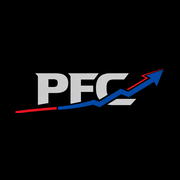
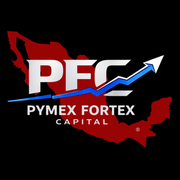
feat: logotipo con el mapa de México y documentos legales con los textos de Pimex Fortex Capital S.A.S.
Logotipo
- logo-mapa.png (sin fondo, superficies negras) y logo-mapa-tile.png (con fondo negro, sobre claro)
- En encabezado público, pie, login, barra lateral, encabezado móvil, páginas legales,
  favicon y apple-touch-icon; se retiran los emblemas anteriores

Documentos legales (siguen como borrador por los datos pendientes)
- Razón social Pimex Fortex Capital S.A.S. (constitución electrónica ante la Secretaría de Economía)
- Textos del cliente integrados: privacidad B2B, términos (comercialización de activos,
  unidades móviles, vehículos extranjeros legalizados, software y consultoría; ajeno a la
  intermediación financiera), cookies, riesgos (no es institución bancaria), KYC/PLD y atención
- Atención a usuarios: PROFECO como autoridad (ya no CONDUSEF)
- La política de cookies conserva el detalle real: solo la cookie técnica de sesión
- Copyright con la razón social

Changed region(s): [[0.0278, 0.1667, 0.9722, 0.8333]]

diff --git a/web/src/legal/documents.ts b/web/src/legal/documents.ts
@@ -30,7 +30,7 @@ export interface LegalDoc {
   sections: LegalSection[];
 }
 
-const EMPRESA = '[RAZÓN SOCIAL: Pimex Fortex Capital, S.A.P.I. de C.V. — confirmar denominación y figura legal]';
+const EMPRESA = 'Pimex Fortex Capital S.A.S.';
 const DOMICILIO = '[DOMICILIO: calle, número, colonia, código postal, ciudad, estado, México]';
 const CORREO_PRIVACIDAD = '[privacidad@pimexfortexcapital.com.mx]';
 const CORREO_SOPORTE = '[atencion@pimexfortexcapital.com.mx]';
@@ -52,8 +52,9 @@ export const LEGAL_DOCS: LegalDoc[] = [
       {
         title: '1. Identidad y domicilio del Responsable',
         blocks: [
-          `${EMPRESA} (en adelante, "Pimex Fortex Capital" o el "Responsable"), con domicilio en ${DOMICILIO}, es responsable del tratamiento de sus datos personales conforme a la Ley Federal de Protección de Datos Personales en Posesión de los Particulares vigente (la "LFPDPPP"), su Reglamento y demás disposiciones aplicables.`,
-          `Este Aviso aplica al sitio ${SITIO}, al portal de inversionistas ${PORTAL} y a la relación contractual con nuestros inversionistas. Última actualización: ${FECHA}.`
+          `En ${EMPRESA}, la protección de los datos personales y corporativos es prioritaria. Este Aviso de Privacidad regula la recolección, uso y resguardo de la información de clientes, proveedores y contrapartes comerciales (B2B), en cumplimiento con la legislación aplicable. Los datos se utilizan exclusivamente para la formalización de contratos mercantiles y la comercialización de activos, garantizando absoluta confidencialidad en las relaciones de carácter privado.`,
+          `${EMPRESA} (en adelante, "Pimex Fortex Capital", la "Sociedad" o el "Responsable"), con domicilio en ${DOMICILIO}, es responsable del tratamiento de sus datos personales conforme a la Ley Federal de Protección de Datos Personales en Posesión de los Particulares vigente (la "LFPDPPP"), su Reglamento y demás disposiciones aplicables.`,
+          `Este Aviso aplica al sitio ${SITIO}, al portal de clientes ${PORTAL} y a las relaciones comerciales con clientes, proveedores y contrapartes, sean personas físicas o representantes de personas morales. Última actualización: ${FECHA}.`
         ]
       },
       {
@@ -69,7 +70,7 @@ export const LEGAL_DOCS: LegalDoc[] = [
               'Datos técnicos de uso del portal: dirección IP, fecha y hora de acceso, navegador e intentos de inicio de sesión, con fines de seguridad.'
             ]
           },
-          { callout: 'Los datos financieros y patrimoniales requieren su consentimiento expreso, que se recaba al firmar el contrato de inversión o mediante el mecanismo que el Responsable establezca. No recabamos datos personales sensibles.' }
+          { callout: 'Los datos financieros y patrimoniales requieren su consentimiento expreso, que se recaba al firmar el contrato mercantil correspondiente o mediante el mecanismo que el Responsable establezca. No recabamos datos personales sensibles.' }
         ]
       },
       {
@@ -78,10 +79,11 @@ export const LEGAL_DOCS: LegalDoc[] = [
           'Finalidades primarias (necesarias para la relación con usted):',
           {
             list: [
-              'Identificarlo, verificar su identidad y abrir y administrar su cuenta en el portal de inversionistas.',
-              'Formalizar, ejecutar y dar seguimiento a los contratos de inversión: registro de aportaciones, cálculo y confirmación de rendimientos, pagos, reinversiones y liquidaciones.',
+              'Identificarlo, verificar su identidad y abrir y administrar su cuenta en el portal de clientes.',
+              'Formalizar, ejecutar y dar seguimiento a los contratos mercantiles celebrados con usted y a la comercialización de activos: registro de aportaciones, cálculo y confirmación de rendimientos, pagos, reinversiones y liquidaciones que en ellos se pacten.',
               'Cumplir obligaciones fiscales, incluida la emisión de comprobantes fiscales y, en su caso, retenciones.',
-              'Cumplir obligaciones de prevención e identificación de operaciones con recursos de procedencia ilícita (conocimiento del cliente, monitoreo y, cuando proceda, avisos a la autoridad).',
+              'Cumplir obligaciones de identificación de contrapartes y de prevención de operaciones con recursos de procedencia ilícita (conocimiento del cliente, monitoreo y, cuando proceda, avisos a la autoridad).',
+              'Dar de alta y gestionar a proveedores y contrapartes comerciales.',
               'Enviarle avisos operativos de su cuenta (por ejemplo, rendimientos confirmados, pagos registrados o restablecimiento de contraseña).',
               'Atender aclaraciones, quejas y solicitudes de derechos ARCO, y proteger la seguridad del portal.'
             ]
@@ -156,7 +158,7 @@ export const LEGAL_DOCS: LegalDoc[] = [
       {
         title: '1. Aceptación',
         blocks: [
-          `Estos Términos regulan el acceso y uso del sitio ${SITIO} y del portal ${PORTAL} (la "Plataforma"), operados por ${EMPRESA}, con domicilio en ${DOMICILIO}. Al acceder o usar la Plataforma, usted acepta estos Términos. Si no está de acuerdo, absténgase de usarla. Última actualización: ${FECHA}.`
+          `El acceso y uso de este sitio web y de las plataformas digitales de ${EMPRESA} (${SITIO} y ${PORTAL}, en conjunto la "Plataforma"), con domicilio en ${DOMICILIO}, están sujetos a los presentes Términos y Condiciones. Al navegar o contratar nuestros servicios, el usuario acepta sujetarse a ellos y a las disposiciones mercantiles vigentes. Si no está de acuerdo, absténgase de usar la Plataforma. Última actualización: ${FECHA}.`
         ]
       },
       {
@@ -168,7 +170,8 @@ export const LEGAL_DOCS: LegalDoc[] = [
       {
         title: '3. Objeto de la Plataforma',
         blocks: [
-          'La Plataforma tiene por objeto: (i) informar al público sobre los ramos de negocio y las condiciones de referencia de las inversiones que ofrece Pimex Fortex Capital, y (ii) permitir a los inversionistas con contrato vigente consultar en línea su capital, rendimientos, pagos y avisos.',
+          'Pimex Fortex Capital ofrece servicios de comercialización de activos, unidades móviles y vehículos extranjeros legalizados, desarrollo de software y consultoría, operando bajo un estricto modelo comercial y corporativo, ajeno a la intermediación financiera masiva.',
+          'La Plataforma tiene por objeto: (i) informar sobre los ramos de negocio de la Sociedad y las condiciones de referencia de los proyectos comerciales que estructura, y (ii) permitir a los clientes con contrato vigente consultar en línea su capital, rendimientos, pagos y avisos.',
           'La Plataforma es un medio de consulta. No permite realizar depósitos, retiros ni transferencias; las aportaciones y los pagos se realizan fuera de ella, conforme al contrato de inversión. La información publicada es de referencia: las condiciones definitivas son las del contrato que cada inversionista firma.',
           'Los indicadores de mercado (tipos de cambio, UDIS, tasas y CETES) provienen de Banco de México y se muestran con fines informativos; no modifican saldos ni contratos.'
         ]
@@ -219,7 +222,7 @@ export const LEGAL_DOCS: LegalDoc[] = [
       {
         title: '9. Modificaciones',
         blocks: [
-          'Podremos modificar estos Términos en cualquier momento. La versión vigente se publicará en esta página con su fecha de actualización; los cambios relevantes se notificarán a los inversionistas por correo electrónico o mediante un aviso en el portal. El uso posterior de la Plataforma implica la aceptación de los cambios.'
+          'La Sociedad se reserva el derecho de modificar estos Términos, así como las especificaciones y contenidos del sitio, en cualquier momento. La versión vigente se publicará en esta página con su fecha de actualización; los cambios relevantes se notificarán a los clientes por correo electrónico o mediante un aviso en el portal. El uso posterior de la Plataforma implica la aceptación de los cambios.'
         ]
       },
       {
@@ -242,6 +245,7 @@ export const LEGAL_DOCS: LegalDoc[] = [
       {
         title: '1. ¿Qué son las cookies y tecnologías similares?',
         blocks: [
+          'Este sitio web puede utilizar cookies y tecnologías análogas para optimizar la experiencia de navegación, analizar el tráfico y mejorar el rendimiento de nuestros portales y herramientas tecnológicas. Al continuar navegando en el portal de Pimex Fortex Capital S.A.S., el usuario consiente su uso conforme a nuestras directrices técnicas de gestión de datos, las cuales no recopilan información confidencial ni comprometen la seguridad de la sesión. A continuación se detallan las cookies que se usan actualmente.',
           'Las cookies son pequeños archivos que un sitio guarda en su navegador para recordar información entre visitas. Los web beacons (píxeles) son imágenes diminutas que permiten saber si se abrió una página o un correo. Otras tecnologías similares incluyen el almacenamiento local del navegador.',
           `Esta política aplica a ${SITIO} y ${PORTAL}, operados por ${EMPRESA}. Última actualización: ${FECHA}.`
         ]
@@ -270,7 +274,7 @@ export const LEGAL_DOCS: LegalDoc[] = [
       {
         title: '3. Si en el futuro usamos otras cookies',
         blocks: [
-          'Si incorporamos cookies analíticas o publicitarias, actualizaremos esta política con su nombre, proveedor, propósito y caducidad, y solicitaremos su consentimiento antes de instalarlas mediante un aviso en el sitio. Podrá aceptarlas o rechazarlas sin afectar el uso de la Plataforma.'
+          'Si incorporamos cookies de analítica de tráfico u otras tecnologías de seguimiento, actualizaremos esta política con su nombre, proveedor, propósito y caducidad, y lo informaremos mediante un aviso visible en el sitio. Podrá deshabilitarlas desde su navegador sin afectar el uso de la Plataforma.'
         ]
       },
       {
@@ -317,9 +321,9 @@ export const LEGAL_DOCS: LegalDoc[] = [
           'I. Declara la Empresa:',
           {
             list: [
-              `Ser una sociedad constituida conforme a las leyes mexicanas, según consta en la escritura pública [NÚMERO], otorgada ante el notario [NÚMERO Y NOMBRE] de ${CIUDAD}, con RFC [RFC DE LA EMPRESA] y domicilio en ${DOMICILIO}.`,
+              `Ser una sociedad por acciones simplificada constituida conforme a la Ley General de Sociedades Mercantiles mediante el sistema electrónico de la Secretaría de Economía, según consta en [FOLIO O BOLETA DE INSCRIPCIÓN EN EL REGISTRO PÚBLICO DE COMERCIO], con RFC [RFC DE LA SOCIEDAD] y domicilio en ${DOMICILIO}.`,
               'Que su representante cuenta con facultades suficientes, que no le han sido revocadas ni limitadas.',
-              '[Estatus regulatorio: precisar la figura legal con la que opera y si cuenta o no con autorización de alguna autoridad financiera.]'
+              'Que opera bajo un modelo comercial y corporativo: no es una institución bancaria ni realiza actividades reguladas de intermediación financiera, y este Contrato es un contrato mercantil privado.'
             ]
           },
           'II. Declara el Inversionista, bajo protesta de decir verdad:',
@@ -497,7 +501,7 @@ export const LEGAL_DOCS: LegalDoc[] = [
       {
         title: 'Advertencias principales',
         blocks: [
-          { callout: 'Toda inversión conlleva el riesgo de pérdida parcial o total del capital invertido.' },
+          { callout: 'Toda actividad comercial, adquisición de activos productivos, desarrollo tecnológico o participación en proyectos comerciales estructurados por Pimex Fortex Capital S.A.S. conlleva riesgos inherentes al mercado financiero, incluido el de pérdida parcial o total de los recursos aportados.' },
           { callout: 'Rendimientos pasados no garantizan rendimientos futuros.' },
           { callout: 'No invierta recursos indispensables para su sustento personal o familiar, ni recursos que pueda necesitar antes del plazo pactado.' }
         ]
@@ -505,8 +509,8 @@ export const LEGAL_DOCS: LegalDoc[] = [
       {
         title: '1. Riesgos de la inversión',
         blocks: [
-          'Las inversiones en los ramos de negocio de Pimex Fortex Capital (transporte, movilidad, vehículos eléctricos, alimentos y otros) dependen del desempeño de negocios reales y están expuestas, entre otros, a riesgos de operación, de mercado, de liquidez, de crédito, regulatorios y de tipo de cambio en inversiones en dólares. Las tasas variables referidas a CETES pueden subir o bajar.',
-          'Las tasas, plazos y montos que se publican en el sitio son de referencia; las condiciones definitivas son las de cada contrato.'
+          'Los proyectos en los ramos de negocio de Pimex Fortex Capital (transporte, movilidad, vehículos eléctricos, alimentos y otros) dependen del desempeño de negocios reales y están expuestos, entre otros, a riesgos de operación, de mercado, de liquidez, de crédito, regulatorios y de tipo de cambio en operaciones en dólares. Las tasas variables referidas a CETES pueden subir o bajar.',
+          'Las condiciones de plazos, costos y estimaciones comerciales tienen un carácter referencial y se establecen de manera formal y definitiva en cada contrato mercantil privado.'
         ]
       },
       {
@@ -518,8 +522,7 @@ export const LEGAL_DOCS: LegalDoc[] = [
       {
         title: '3. Estatus regulatorio',
         blocks: [
-          `${EMPRESA} es una [sociedad mercantil / figura legal] que opera bajo [esquema legal]. [OPCIÓN A: No es una institución financiera ni cuenta con autorización de la Comisión Nacional Bancaria y de Valores (CNBV) ni de Banco de México, y sus operaciones no están supervisadas por dichas autoridades. Los recursos invertidos no están protegidos por el Instituto para la Protección al Ahorro Bancario (IPAB).] [OPCIÓN B: Cuenta con autorización de [AUTORIDAD] número [NÚMERO] para operar como [FIGURA].]`,
-          '[El abogado debe elegir y completar la opción que corresponda: esta declaración debe ser exacta para no inducir a error al público, conforme a la Ley Federal de Protección al Consumidor y demás normativa aplicable.]'
+          `${EMPRESA} es una sociedad mercantil por acciones simplificada. La sociedad no es una institución bancaria ni realiza actividades reguladas de intermediación financiera; por lo tanto, no está autorizada ni supervisada por la Comisión Nacional Bancaria y de Valores (CNBV) ni por Banco de México, y los recursos aportados no están protegidos por el Instituto para la Protección al Ahorro Bancario (IPAB).`
         ]
       },
       {
@@ -542,7 +545,8 @@ export const LEGAL_DOCS: LegalDoc[] = [
       {
         title: '1. Compromiso',
         blocks: [
-          `${EMPRESA} se compromete con el cumplimiento de la Ley Federal para la Prevención e Identificación de Operaciones con Recursos de Procedencia Ilícita (LFPIORPI), su Reglamento y las reglas aplicables, y con evitar que sus servicios sean utilizados para operaciones con recursos de procedencia ilícita o para el financiamiento al terrorismo. [Confirmar con el oficial de cumplimiento si la actividad es vulnerable conforme a la LFPIORPI y las obligaciones de aviso que correspondan.]`
+          `En cumplimiento con los estándares de integridad comercial y las normativas aplicables a operaciones de valor (tales como la comercialización de vehículos y bienes), ${EMPRESA} implementa procedimientos internos de identificación de contrapartes (KYC) y mitigación de riesgos operativos (PLD). Esto comprende la validación de identidad, la verificación de la procedencia legal de los recursos en transacciones mercantiles y el resguardo de expedientes bajo rigurosas políticas de confidencialidad comercial.`,
+          'La Sociedad se compromete con el cumplimiento de la Ley Federal para la Prevención e Identificación de Operaciones con Recursos de Procedencia Ilícita (LFPIORPI), su Reglamento y las reglas aplicables a las actividades vulnerables que realice, y con evitar que sus servicios sean utilizados para operaciones con recursos de procedencia ilícita o para el financiamiento al terrorismo. [Confirmar con el oficial de cumplimiento las actividades vulnerables, umbrales y avisos que correspondan.]'
         ]
       },
       {
@@ -601,6 +605,7 @@ export const LEGAL_DOCS: LegalDoc[] = [
       {
         title: '1. Área de atención a clientes',
         blocks: [
+          `Para cualquier consulta, aclaración o soporte relacionado con nuestros servicios de consultoría financiera, incubación de negocios, flotas, unidades móviles e infraestructura tecnológica, ${EMPRESA} pone a disposición sus canales oficiales de comunicación corporativa, garantizando una atención profesional y directa.`,
           {
             table: {
               head: ['Medio', 'Dato'],
@@ -634,10 +639,7 @@ export const LEGAL_DOCS: LegalDoc[] = [
       {
         title: '3. Autoridades competentes',
         blocks: [
-          '[El abogado debe indicar cuál de las dos autoridades aplica según la figura legal de la empresa.]',
-          'Si la empresa es una entidad financiera, puede acudir a la Comisión Nacional para la Protección y Defensa de los Usuarios de Servicios Financieros (CONDUSEF):',
-          { list: ['Teléfono: 55 5340 0999 [verificar vigencia].', 'Portal: https://www.gob.mx/condusef'] },
-          'Si la empresa es una sociedad mercantil que presta servicios al público consumidor, puede acudir a la Procuraduría Federal del Consumidor (PROFECO):',
+          'Pimex Fortex Capital S.A.S. es una sociedad mercantil y no una entidad financiera. Si después de acudir a nuestra área de atención no queda satisfecho, puede acudir a la Procuraduría Federal del Consumidor (PROFECO) [confirmar con el abogado que aplica a la relación de que se trate]:',
           {
             list: [
               'Teléfono del Consumidor: 55 5568 8722 (Ciudad de México y área metropolitana) y 800 468 8722 (resto del país) [verificar vigencia].',

diff --git a/web/src/pages/public/LandingPage.tsx b/web/src/pages/public/LandingPage.tsx
@@ -101,7 +101,7 @@ export function LandingPage() {
         <MarketTicker />
         <div className="mx-auto flex max-w-6xl items-center gap-3 px-4 py-2.5 sm:px-6">
           <a href="#inicio" className="mr-auto flex min-h-[44px] min-w-[44px] items-center gap-3" aria-label={`${BRAND.name}, inicio`}>
-            <img src={BRAND.emblemDarkSrc} alt="" width={118} height={36} className="h-7 w-auto sm:h-9" />
+            <img src={BRAND.logoSrc} alt="" width={62} height={44} className="h-10 w-auto sm:h-11" />
             <span className="hidden border-l border-band-line pl-3 leading-tight md:block">
               <span className="font-display block text-sm font-extrabold uppercase tracking-wide text-on-band [font-stretch:112%]">Pimex Fortex</span>
               <span className="block text-xs font-semibold uppercase tracking-[0.3em] text-on-band-2">Capital</span>
@@ -373,12 +373,12 @@ export function LandingPage() {
           <div className="flex flex-wrap items-center justify-between gap-4">
             <span className="flex items-center gap-2">
               <picture>
-                <source srcSet={BRAND.emblemDarkSrc} media="(prefers-color-scheme: dark)" />
-                <img src={BRAND.emblemLightSrc} alt="" width={92} height={28} className="h-7 w-auto" />
+                <source srcSet={BRAND.logoSrc} media="(prefers-color-scheme: dark)" />
+                <img src={BRAND.logoTileSrc} alt="" width={56} height={40} className="h-10 w-auto rounded-md" />
               </picture>
               <span className="font-semibold text-ink">{BRAND.name}</span>
             </span>
-            <span>© {new Date().getFullYear()} {BRAND.name}</span>
+            <span>© {new Date().getFullYear()} {BRAND.legalName}</span>
           </div>
           <nav aria-label="Documentos legales" className="mt-4">
             <ul className="flex flex-wrap gap-x-4">

diff --git a/web/src/pages/public/LegalPages.tsx b/web/src/pages/public/LegalPages.tsx
@@ -63,7 +63,7 @@ function LegalLayout({ children }: { children: ReactNode }) {
       <header className="band border-b border-band-line bg-band">
         <div className="mx-auto flex max-w-6xl items-center justify-between gap-3 px-4 py-3 sm:px-6">
           <Link to="/" className="flex min-h-[44px] items-center gap-3" aria-label={`${BRAND.name}, inicio`}>
-            <img src={BRAND.emblemDarkSrc} alt="" width={105} height={32} className="h-8 w-auto" />
+            <img src={BRAND.logoSrc} alt="" width={56} height={40} className="h-10 w-auto" />
             <span className="hidden text-sm font-semibold text-on-band-2 sm:block">Documentos legales</span>
           </Link>
           <Link to="/" className="inline-flex min-h-[44px] items-center rounded-lg px-3 text-sm font-semibold text-on-band hover:bg-band-raised">
@@ -73,7 +73,7 @@ function LegalLayout({ children }: { children: ReactNode }) {
       </header>
       <main className="mx-auto max-w-6xl px-4 py-10 sm:px-6 sm:py-14">{children}</main>
       <footer className="border-t border-line">
-        <p className="mx-auto max-w-6xl px-4 py-6 text-xs text-ink-2 sm:px-6">© {new Date().getFullYear()} {BRAND.name}</p>
+        <p className="mx-auto max-w-6xl px-4 py-6 text-xs text-ink-2 sm:px-6">© {new Date().getFullYear()} {BRAND.legalName}</p>
       </footer>
     </div>
   );

diff --git a/web/src/layouts/brand.ts b/web/src/layouts/brand.ts
@@ -1,13 +1,14 @@
 // Identidad de Pimex Fortex Capital (logotipo y paleta del cliente; ver .impeccable.md).
-// El logotipo completo del cliente dice "PYMEX": mientras llega corregido se usa solo el emblema PFC
-// y el nombre se escribe como texto.
+// El logotipo oficial (con el mapa de México y ®) dice "PYMEX FORTEX CAPITAL"; los textos usan el nombre
+// confirmado por el cliente, "Pimex", y la razón social "Pimex Fortex Capital S.A.S.".
 export const BRAND = {
   name: 'Pimex Fortex Capital',
+  legalName: 'Pimex Fortex Capital S.A.S.',
   shortName: 'PFC',
   tagline: 'Portal de inversionistas',
-  /** Emblema "PFC" + flecha (sin nombre), para fondos oscuros. Proporción ≈ 3.3 : 1. Sobre azul profundo la flecha se pierde. */
-  emblemDarkSrc: '/brand/emblem-dark.png',
-  /** Emblema para fondos claros. */
-  emblemLightSrc: '/brand/emblem-light.png',
+  /** Logotipo completo sin fondo, para superficies negras (encabezados, barra lateral, login). Proporción ≈ 1.4 : 1. */
+  logoSrc: '/brand/logo-mapa.png',
+  /** Logotipo con su fondo negro original, para mostrarse como recuadro sobre fondos claros. */
+  logoTileSrc: '/brand/logo-mapa-tile.png',
   supportText: 'Si tiene dudas sobre sus cifras, comuníquese con la administración.'
 };

diff --git a/web/src/pages/auth/AuthLayout.tsx b/web/src/pages/auth/AuthLayout.tsx
@@ -14,11 +14,7 @@ export function AuthLayout({ title, subtitle, children }: { title: string; subti
       <main className="flex flex-1 items-center justify-center px-4 py-10" style={{ backgroundImage: 'radial-gradient(ellipse at top, oklch(var(--nav-active) / 0.9), transparent 60%)' }}>
         <div className="w-full max-w-sm">
           <div className="mb-6 flex flex-col items-center text-center">
-            <img src={BRAND.emblemDarkSrc} alt="" width={224} height={68} className="w-56 max-w-full" />
-            <p className="font-display mb-6 mt-3 text-lg font-extrabold uppercase leading-tight tracking-wide text-white [font-stretch:112%]">
-              Pimex Fortex
-              <span className="block text-xs font-semibold tracking-[0.35em] text-nav-ink">Capital</span>
-            </p>
+            <img src={BRAND.logoSrc} alt={BRAND.name} width={240} height={171} className="mb-5 w-60 max-w-full" />
             <h1 className="text-2xl font-bold text-white">{title}</h1>
             {subtitle && <p className="mt-1 text-sm text-nav-ink">{subtitle}</p>}
           </div>

diff --git a/web/src/layouts/AppShell.tsx b/web/src/layouts/AppShell.tsx
@@ -21,7 +21,7 @@ function BrandMark({ areaLabel, compact = false }: { areaLabel?: string; compact
   // El emblema "PFC" ya lleva la marca; debajo, el nombre completo y el área (sobre negro ejecutivo).
   return (
     <div className={cx('leading-tight', compact && 'flex items-center gap-2.5')}>
-      <img src={BRAND.emblemDarkSrc} alt={BRAND.name} width={compact ? 92 : 132} height={compact ? 28 : 40} className={compact ? 'h-7 w-auto' : 'h-10 w-auto'} />
+      <img src={BRAND.logoSrc} alt={BRAND.name} width={compact ? 56 : 101} height={compact ? 40 : 72} className={compact ? 'h-10 w-auto' : 'h-[72px] w-auto'} />
       {!compact && (
         <>
           <p className="mt-2.5 text-xs font-semibold uppercase tracking-[0.16em] text-nav-ink">{BRAND.name}</p>

diff --git a/web/src/test/legal.test.tsx b/web/src/test/legal.test.tsx
@@ -31,7 +31,8 @@ describe('Documentos legales', () => {
 
   it('la declaración de riesgos destaca las advertencias obligatorias', async () => {
     renderApp('/legal/declaracion-de-riesgos');
-    expect(await screen.findByText('Toda inversión conlleva el riesgo de pérdida parcial o total del capital invertido.')).toBeInTheDocument();
+    expect(await screen.findByText(/conlleva riesgos inherentes al mercado financiero, incluido el de pérdida parcial o total/)).toBeInTheDocument();
+    expect(screen.getByText(/no es una institución bancaria ni realiza actividades reguladas de intermediación financiera/)).toBeInTheDocument();
     expect(screen.getByText('Rendimientos pasados no garantizan rendimientos futuros.')).toBeInTheDocument();
   });
 

diff --git a/.impeccable.md b/.impeccable.md
@@ -11,7 +11,7 @@
 - **Emoción buscada:** confianza ("mi dinero está bien llevado") y orgullo de ser socio de negocios reales (transporte, comida, movilidad).
 
 ### Aesthetic Direction
-- **Marca:** Pimex Fortex Capital (así en el logotipo; el dominio es pimexfortexcapital.com.mx). Logotipo: "PFC" en grotesca muy pesada color plata, con una línea roja que se vuelve flecha azul ascendente; debajo "PIMEX FORTEX / CAPITAL". Archivos en `web/public/brand/` (versiones para fondo oscuro y claro, y el emblema PFC solo).
+- **Marca:** Pimex Fortex Capital (razón social Pimex Fortex Capital S.A.S.; dominio pimexfortexcapital.com.mx). Logotipo oficial: "PFC" en grotesca muy pesada color plata sobre el mapa de México en rojo, con una flecha azul y blanca ascendente, "PYMEX FORTEX CAPITAL" y ®. Archivos en `web/public/brand/`: `logo-mapa.png` (sin fondo, para superficies negras) y `logo-mapa-tile.png` (con su fondo negro, como recuadro sobre fondos claros). El nombre en textos es "Pimex".
 - **Color (paleta del cliente):**
   - Negro ejecutivo (#000, en la práctica un casi negro con matiz azul) para encabezado, portada, franjas y barra lateral: el logotipo vive sobre negro.
   - Azul profundo #003366 para botones principales, títulos y elemento activo. Sobre él la flecha del logo se pierde: no poner el logo sobre azul profundo.
